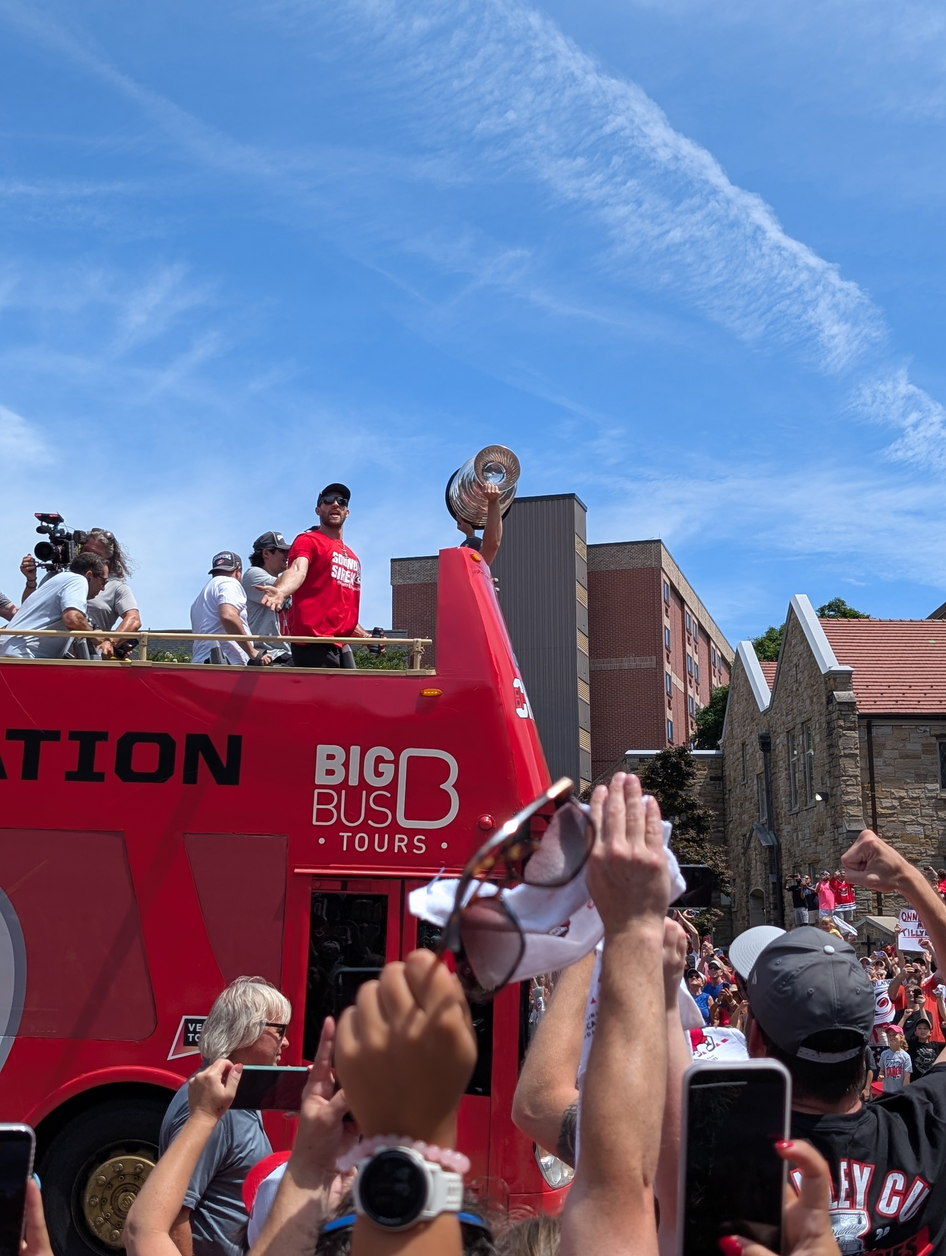
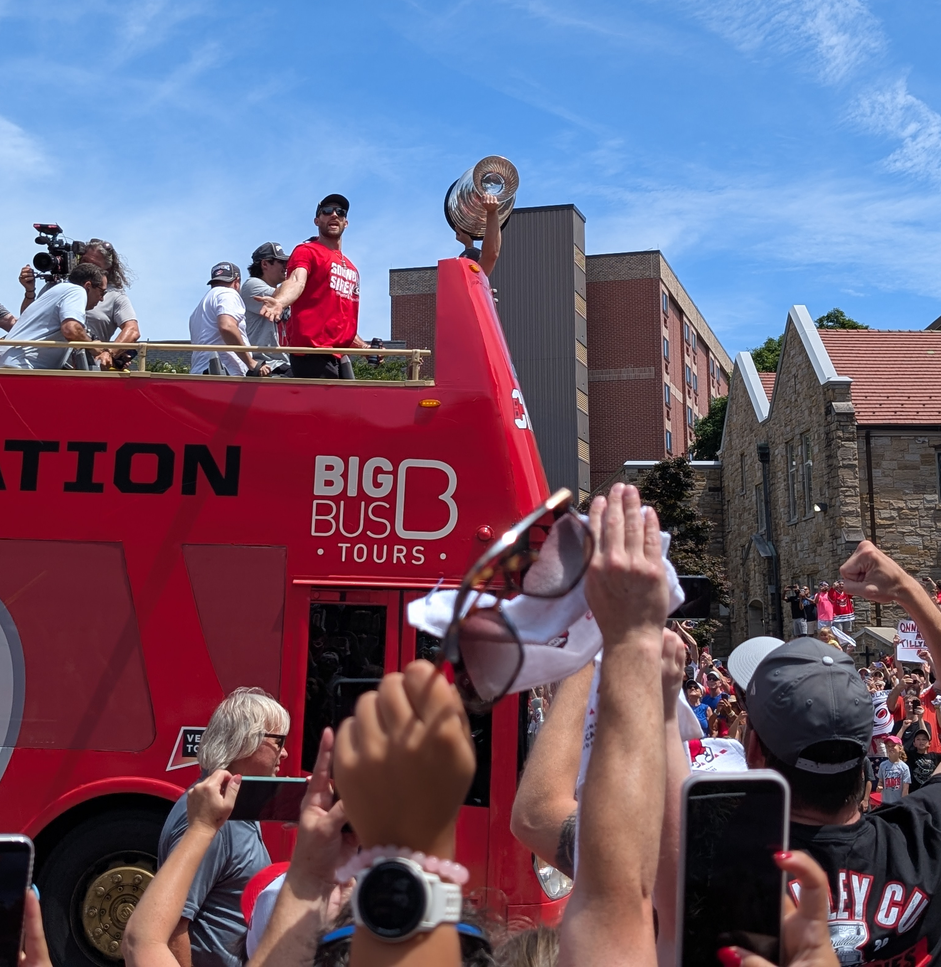
css

diff --git a/article/stanley-cup-champions.php b/article/stanley-cup-champions.php
@@ -41,10 +41,10 @@ include "../menu.php";
   <div class="col-md-8">
 
 
-        <h2>Eastern Conference Champions 2026</h2>
+        <h2>Stanley Cup Champions  2026</h2>
        <figure class="figure">
         <img class="img-fluid" src="/img/trophy_2026.png" alt="conference champs"/>
-        <figcaption class="figure-caption text-center">Also Stanley cup champs</figcaption>
+        <figcaption class="figure-caption text-center">Eastern Conference Champions</figcaption>
       </figure>
 
         <figure class="figure">
@@ -54,8 +54,7 @@ include "../menu.php";
 
 
 
-       <h2>Stanley Cup Champions</h2>
-        <h2>June 19, 2006</h2>
+       <h2>Stanley Cup Champions 2006</h2>
         <figure class="figure">
         <img class="img-fluid" src="/img/stanleycup01.jpg" alt="roll out the carpet"/>
         <figcaption class="figure-caption text-center">Roll out the carpet</figcaption>
